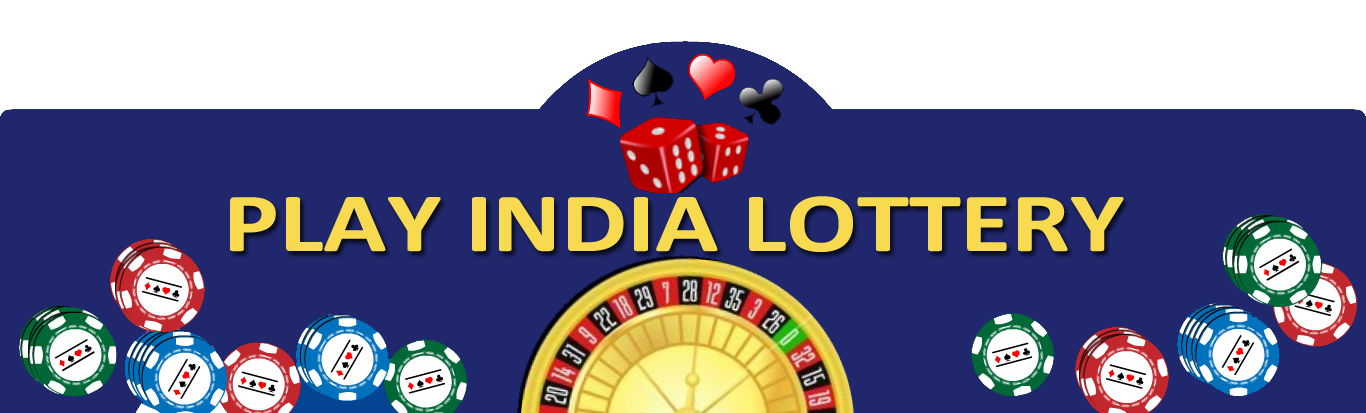
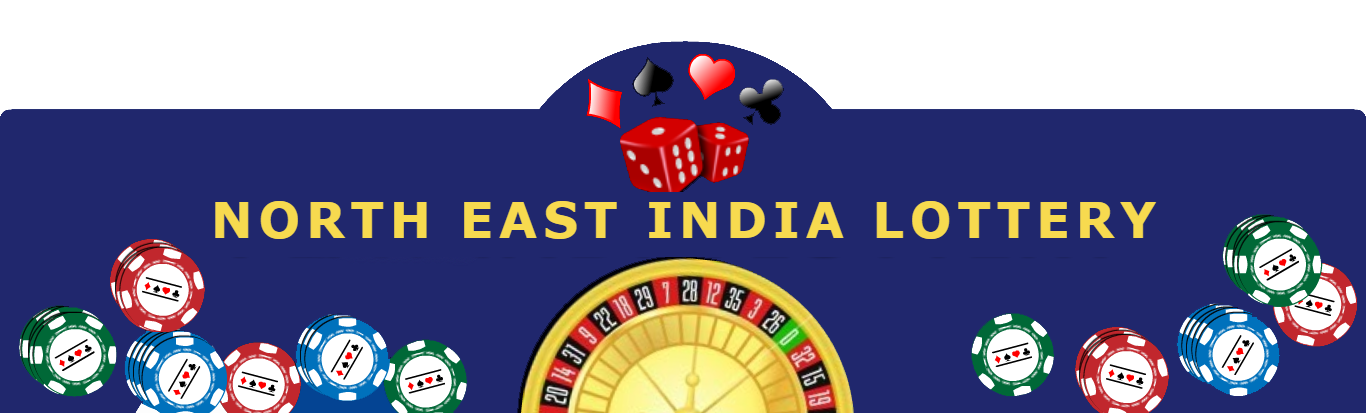
better seo

Changed region(s): [[0.1537, 0.4649, 0.8609, 0.6392]]

diff --git a/src/pages/DefaultPage/index.jsx b/src/pages/DefaultPage/index.jsx
@@ -6,6 +6,7 @@ import { useLoading } from "../../context/LoadingContext";
 import "./index.scss";
 import playIcon from "../../assets/images/play.png";
 import lotteryHeader from "../../assets/images/lotteryHeader.png";
+import { Helmet } from "react-helmet-async";
 
 const DefaultPage = () => {
   const { getSettingsById, getResultByDateTime } = useData();
@@ -222,6 +223,19 @@ const DefaultPage = () => {
 
   return (
     <div className="default-page">
+      <Helmet>
+        <title>
+          North East India Lottery | Best Online Lottery in North East India
+        </title>
+        <meta
+          name="description"
+          content="Play North East India Lottery and win big with the best online lottery platform in North East India. Join now for exciting draws and results!"
+        />
+        <meta
+          name="keywords"
+          content="North East India Lottery, online lottery, North East lottery, win big, lottery results, Assam, Meghalaya, Nagaland, Sikkim, Arunachal, Manipur, Mizoram, Tripura"
+        />
+      </Helmet>
       <div className="content-container">
         <img
           src={lotteryHeader}
@@ -684,7 +698,14 @@ const DefaultPage = () => {
           <span>
             Purchase of lottery using this website is strictly prohibited in the
             states where lotteries are banned. You must be above 18 years to
-            play Online Lottery. ©playindialottery.com all rights reserved.
+            play Online Lottery.{" "}
+            <a
+              href="https://www.northeastindialottery.com"
+              target="_blank"
+            >
+              ©northeastindialottery.com
+            </a>{" "}
+            all rights reserved.
           </span>
         </div>
       </div>

diff --git a/src/pages/DefaultPage/index.scss b/src/pages/DefaultPage/index.scss
@@ -252,13 +252,14 @@
 
 @media screen and (max-width: 768px) {
   .default-page {
-    padding: 15px;
+    padding: 5px;
     .ticker-content {
       font-size: 18px;
     }
     .time-panel {
       width: auto;
       padding: 2px 5px;
+      border-radius: 2px;
     }
     .panel-label {
       font-size: 8px;
@@ -283,11 +284,12 @@
         }
       }
       input {
-        max-width: 4px;
-        height: 8px;
+        border-radius: 2px;
+        max-width: 6px;
+        height: 4px;
       }
       input.large-input {
-        max-width: 10px;
+        max-width: 18px;
         font-size: 6px;
       }
       .left-b {
@@ -302,22 +304,25 @@
         font-size: 8px;
       }
       input {
-        border-radius: 5px;
-        width: 20px;
-        height: 10px;
+        border-radius: 2px;
+        width: 30px;
+        height: 8px;
+      }
+      .button {
+        display: flex;
       }
       .button input {
         width: auto;
         border-radius: 0;
         padding: 2px 5px;
         font-size: 8px;
-        height: 20px;
+        height: 18px;
       }
       .loginn.total {
         margin-left: 10px;
       }
       .total input {
-        width: 10px;
+        width: 14px;
         font-size: 8px;
       }
     }
@@ -337,7 +342,7 @@
         font-size: 6px;
         font-weight: bold;
         background: #faa70b;
-        border-radius: 5px;
+        border-radius: 2px;
         padding: 2px 5px;
         cursor: pointer;
       }

diff --git a/src/pages/HomePage/index.jsx b/src/pages/HomePage/index.jsx
@@ -81,19 +81,21 @@ const HomePage = () => {
   return (
     <div className="home-page">
       <Helmet>
-        <title>Play India Lottery Deluxe | Best Online Lottery in India</title>
+        <title>
+          North East India Lottery | Best Online Lottery in North East India
+        </title>
         <meta
           name="description"
-          content="Play India Lottery and win big with Play India Lottery Deluxe. The best online lottery platform in India. Join now!"
+          content="Play North East India Lottery and win big with the best online lottery platform in North East India. Join now for exciting draws and results!"
         />
         <meta
           name="keywords"
-          content="Play India Lottery, Play India Lottery Deluxe, India lottery, online lottery, win big"
+          content="North East India Lottery, online lottery, North East lottery, win big, lottery results, Assam, Meghalaya, Nagaland, Sikkim, Arunachal, Manipur, Mizoram, Tripura"
         />
       </Helmet>
       <div className="box-container">
         <div className="top-panel">
-          <h1 className="main-heading">Play India Lottery</h1>
+          <h1 className="main-heading">North East India Lottery</h1>
           <p className="sub-heading">Daily Result Chart</p>
           <p className="info">
             CONTACT FOR RESULT SMS & CUSTOMER CARE: {phNumber}

diff --git a/index.html b/index.html
@@ -11,10 +11,12 @@
       name="viewport"
       content="width=device-width, initial-scale=1.0"
     />
-    <title>India Lottery 2</title>
+    <title>
+      North East India Lottery | Best Online Lottery in North East India
+    </title>
     <meta
       name="description"
-      content="Play India Lottery and stand a chance to win big. Join now for the best online lottery experience in India. Safe, secure, and easy to play."
+      content="North East India Lottery and stand a chance to win big. Join now for the best online lottery experience in India. Safe, secure, and easy to play."
     />
   </head>
   <body>
